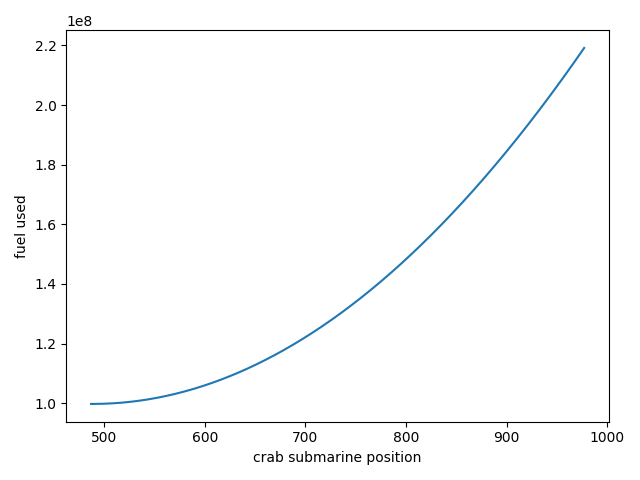
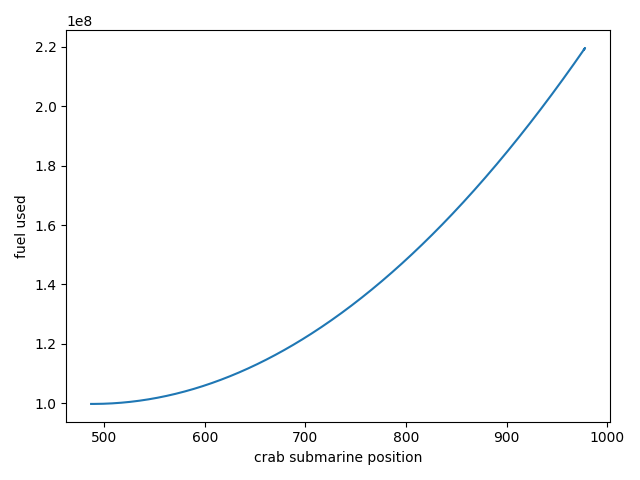
quicker to start from median value

diff --git a/day7.py b/day7.py
@@ -39,11 +39,13 @@ def fuelcalc(crabs, pos):
 
 def p2(expect=99763899, viz=None):
     scatter = []
-    data = dict(Counter(map(int, PARSED)))
+    ints = list(map(int, PARSED))
+    data = dict(Counter(ints))
     imax = max(data)
     imin = min(data)
     iguess = (imax + imin) // 2
-    newval = 0
+    iguess = sorted(ints)[len(ints)//2]
+    newval = 999999999999
     while True:
         oldval = newval
         newval = fuelcalc(data, iguess)
